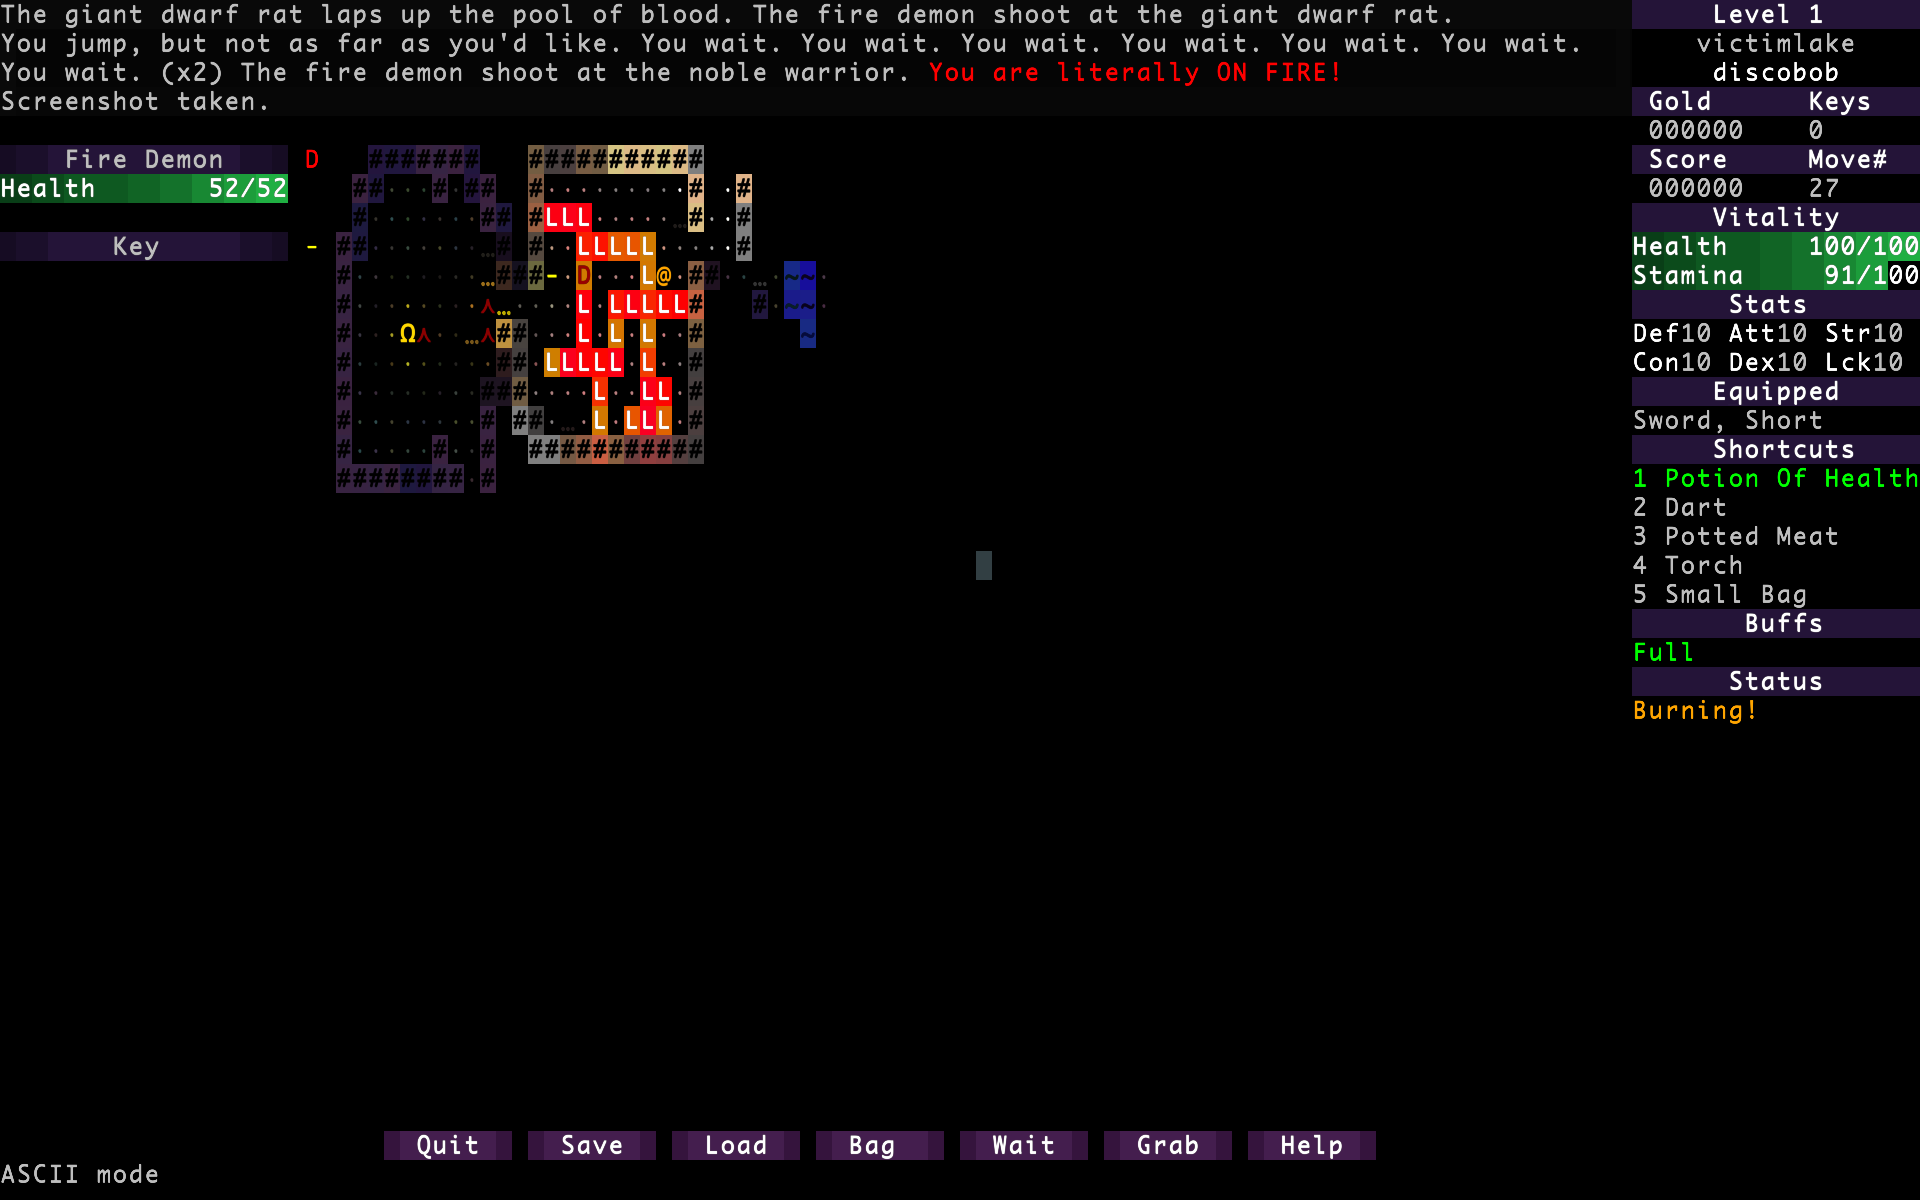
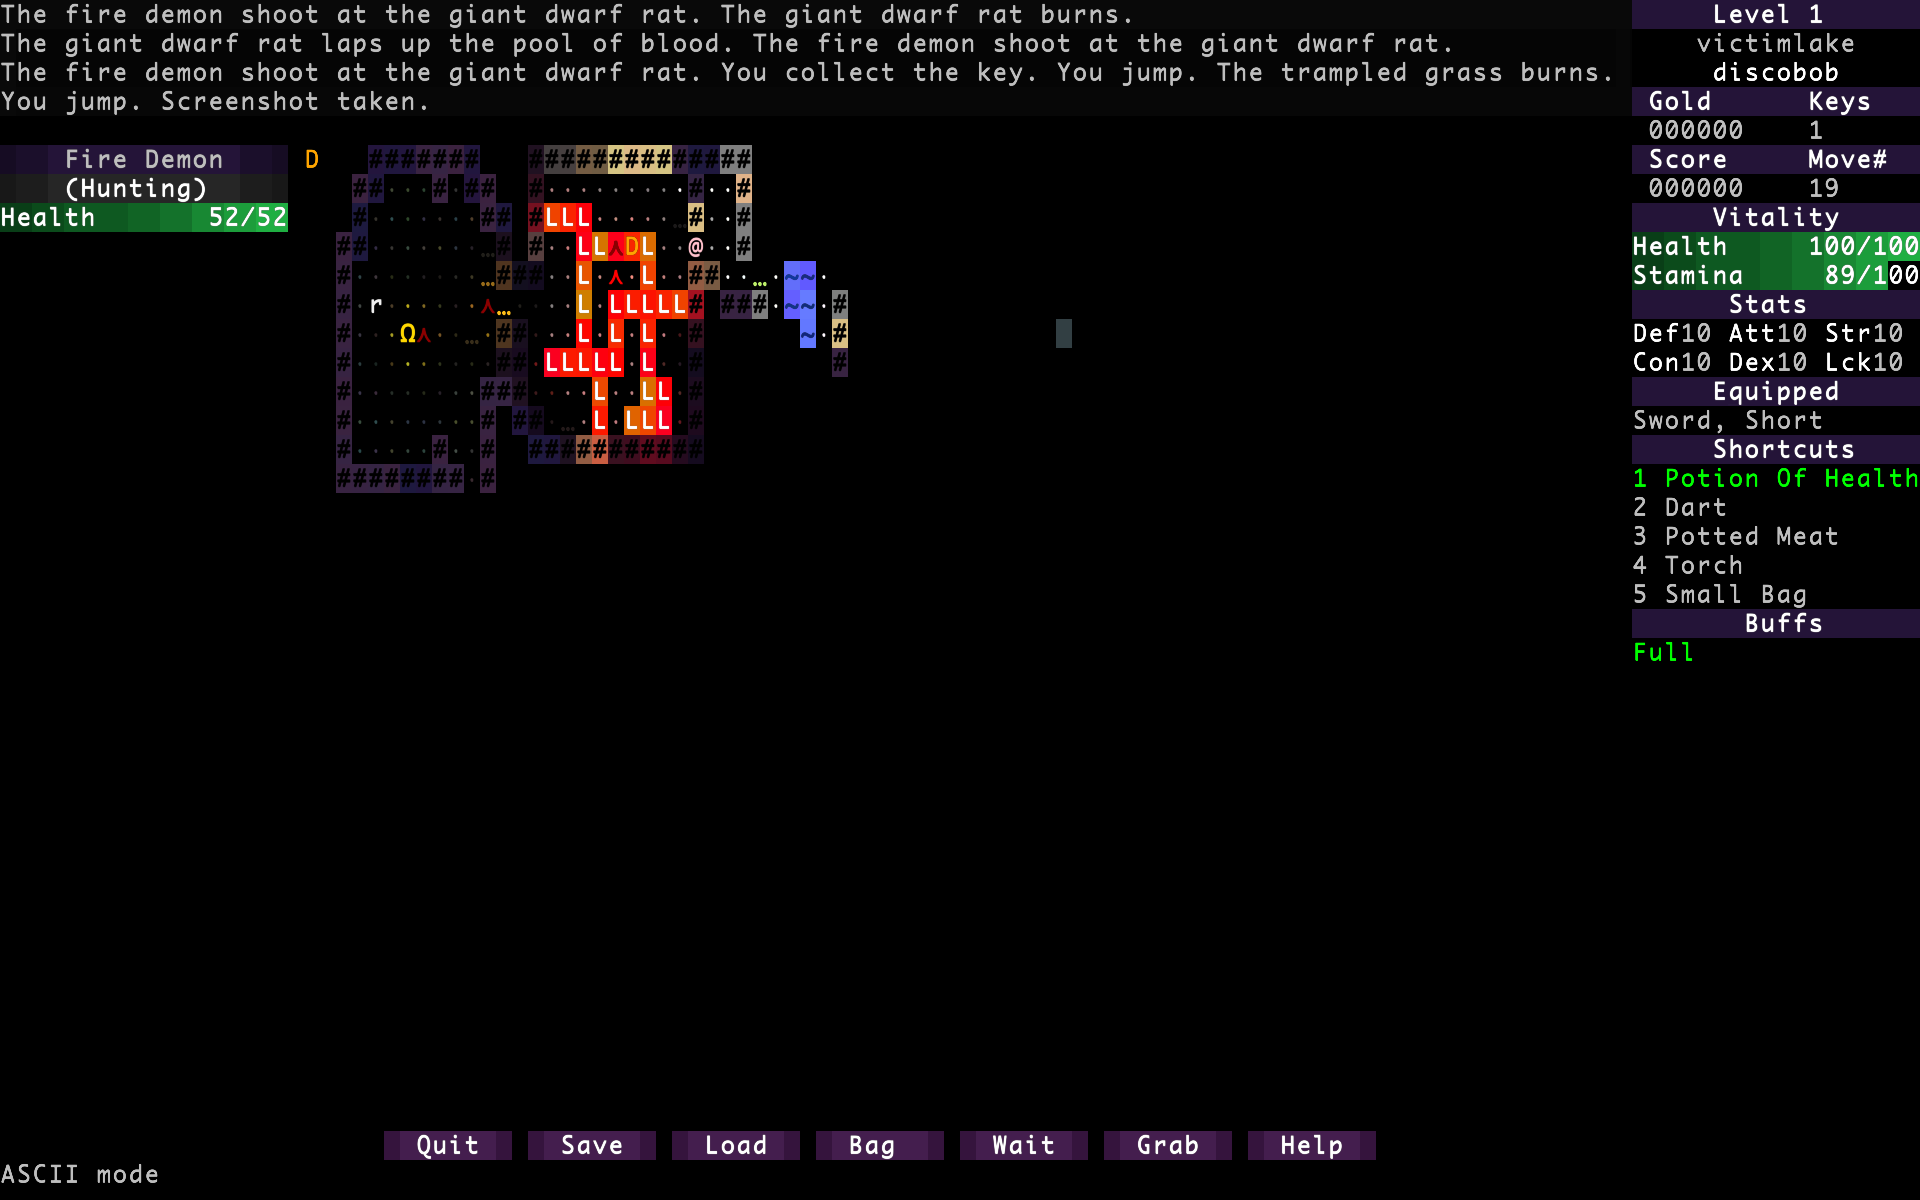
better demon pics

diff --git a/python/things/monsters/demon_fire.py b/python/things/monsters/demon_fire.py
@@ -139,6 +139,8 @@ def tp_init(name, text_long_name):
     my.stat_luck(self, 2)
     my.stat_str(self, 18)
     my.teleport_distance(self, 5)
+    my.light_color(self, "red")
+    my.light_dist(self, 2)
     my.text_a_or_an(self, "a")
     my.text_description_long2(self, "Fire demons are formidable enemies. Execute extreme caution or be executed extremely...")
     my.text_description_long(self, "Accursed creature of the abyss. Devoid of life. Full of hatred, and just wants to get back to the pit so it can take care of its pet cats. And you are in the way...")
